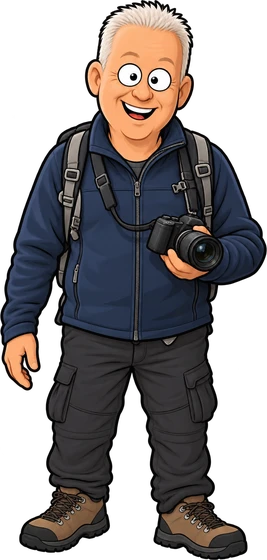
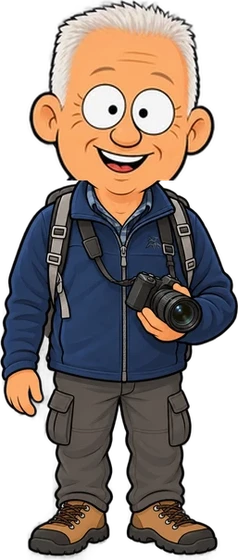
Nieuwe Dick, grotere hoofden voor Dick en Dirk
Claude-Session: https://claude.ai/code/session_01SC28YP35H3kP7dQNjTgBUZ

diff --git a/index.html b/index.html
@@ -119,8 +119,8 @@ const $ = id => document.getElementById(id);
 const DECORS = ['01-outback-nacht','02-sydney','03-blue-mountains','04-outback-weg','05-touringcar-binnen','06-touringcar-nacht','07-cradle-mountain','08-wineglass-bay','09-bos-nacht','10-halls-gap','11-twelve-apostles','12-uluru'];
 const MATES = ['tanja','betty','ed','william','gijsje','adrie','nellie','dick','anne','john','coby','lut','dirk','geert','els','erik'];
 // per traveller: a size correction so heads look alike, and where the head sits in the picture [centre x, head height]
-const SIZE = {"robbert":0.992,"lisette":1.035,"gemma":0.938,"kees":0.938,"henk":1.035,"tanja":1.058,"betty":1.035,"ed":0.938,"william":0.973,"gijsje":1.035,"adrie":1.035,"nellie":0.992,"dick":1.24,"anne":0.921,"john":0.955,"coby":0.992,"lut":0.973,"dirk":1.138,"geert":1.013,"els":0.955,"erik":0.955};
-const HEADBOX = {"robbert":[132.8,233.3],"lisette":[117.4,214.7],"gemma":[151.9,261.3],"kees":[170.5,261.3],"henk":[126.6,214.7],"tanja":[138.7,205.3],"betty":[197.9,214.7],"ed":[184.5,261.3],"william":[156.7,242.7],"gijsje":[125.4,214.7],"adrie":[104.9,214.7],"nellie":[116.2,233.3],"dick":[140.9,149.3],"anne":[149.2,270.7],"john":[171.8,252.0],"coby":[181.5,233.3],"lut":[132.3,242.7],"dirk":[113.7,177.3],"geert":[111.2,224.0],"els":[181.1,252.0],"erik":[129.5,252.0]};
+const SIZE = {"robbert":0.992,"lisette":1.035,"gemma":0.938,"kees":0.938,"henk":1.035,"tanja":1.058,"betty":1.035,"ed":0.938,"william":0.973,"gijsje":1.035,"adrie":1.035,"nellie":0.992,"dick":1.034,"anne":0.921,"john":0.955,"coby":0.992,"lut":0.973,"dirk":1.034,"geert":1.013,"els":0.955,"erik":0.955};
+const HEADBOX = {"robbert":[132.8,233.3],"lisette":[117.4,214.7],"gemma":[151.9,261.3],"kees":[170.5,261.3],"henk":[126.6,214.7],"tanja":[138.7,205.3],"betty":[197.9,214.7],"ed":[184.5,261.3],"william":[156.7,242.7],"gijsje":[125.4,214.7],"adrie":[104.9,214.7],"nellie":[116.2,233.3],"dick":[122.9,214.7],"anne":[149.2,270.7],"john":[171.8,252.0],"coby":[181.5,233.3],"lut":[132.3,242.7],"dirk":[106.1,214.7],"geert":[111.2,224.0],"els":[181.1,252.0],"erik":[129.5,252.0]};
 // couples walk and appear together
 const UNITS = [['adrie','nellie'],['anne','john'],['betty'],['dick','coby'],['els','erik'],['geert'],['gemma'],['gijsje'],['henk'],['kees'],['lisette'],['lut','dirk'],['robbert'],['tanja'],['william','ed']];
 const SPRITES = [...MATES, 'boef','kees','henk','martin-lijf','martin-hoofd-lach','martin-hoofd-schater','martin-hoofd-schreeuw','martin-hoofd-schrik','robbert','lisette','gemma','chauffeuse-staand','chauffeuse-stuur','chauffeuse-twee-vingers','chauffeuse-verhaal','chauffeuse-woeshaa','pearce-sluipend','pearce-volle-buik','pearce-bijl-omhoog','wombat','keutels','koala-wakker','koala-slaapt','kangoeroe-staand','kangoeroe-springend','kangoeroe-liggend','kameel-blij','kameel-beledigd','barbecue','bijl','minibus-aanhanger','touringcar'];
